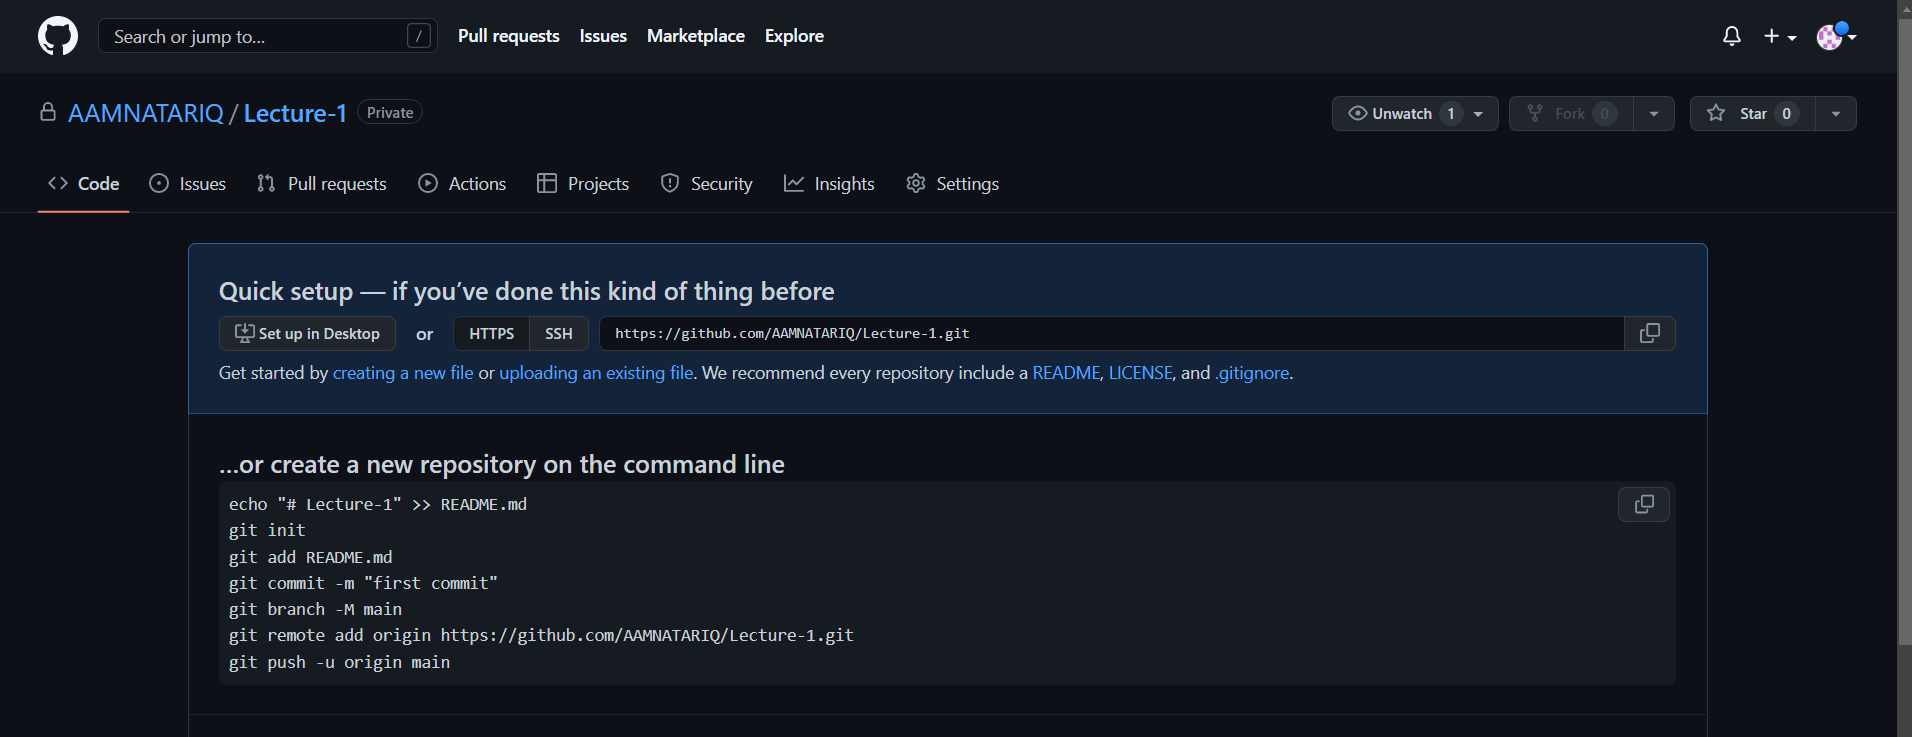
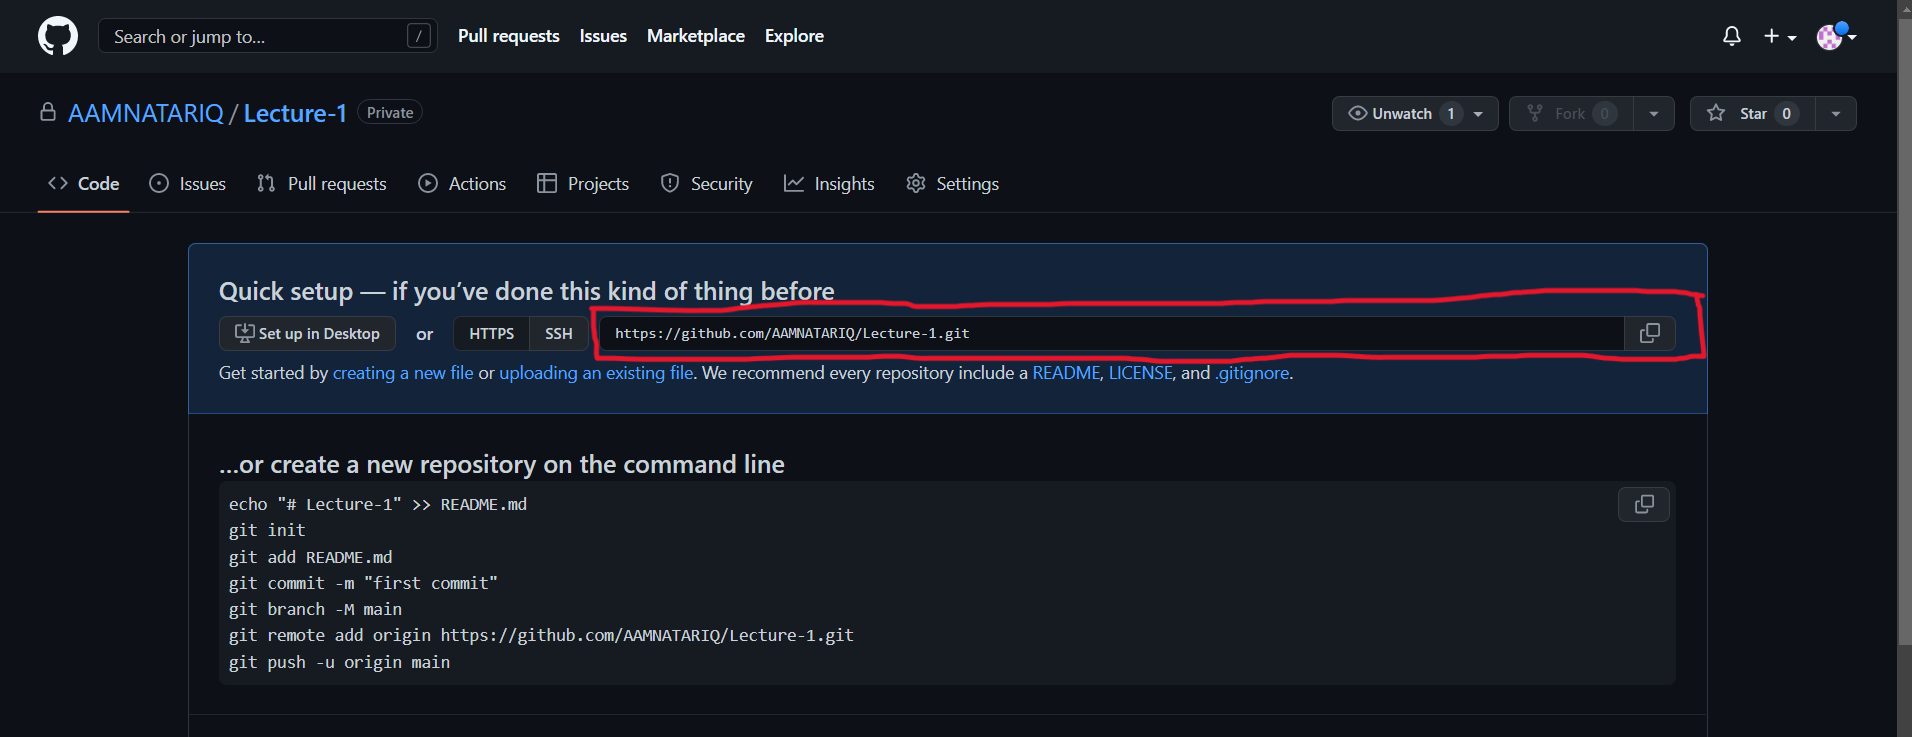
updating content of step 14

Changed region(s): [[0.3086, 0.3745, 0.8949, 0.4993]]

diff --git a/f1.html b/f1.html
@@ -269,7 +269,8 @@
           </div>
           <div class="my-3 mx-5">
             <p class="heading">Github Repository</p>
-            <p>url of repository is given. Following picture shows it.</p>
+            <p>As, soon as the repository is made, page is opened which shows the url of repository.</p>
+            <p>The repository you made has the url <b>https://github.com/AAMNATARIQ/Lecture-1.git</b>, following picture shows it.</p>
             <img src="static/point 16.png" alt="git init command">        
           </div>
       </div>
